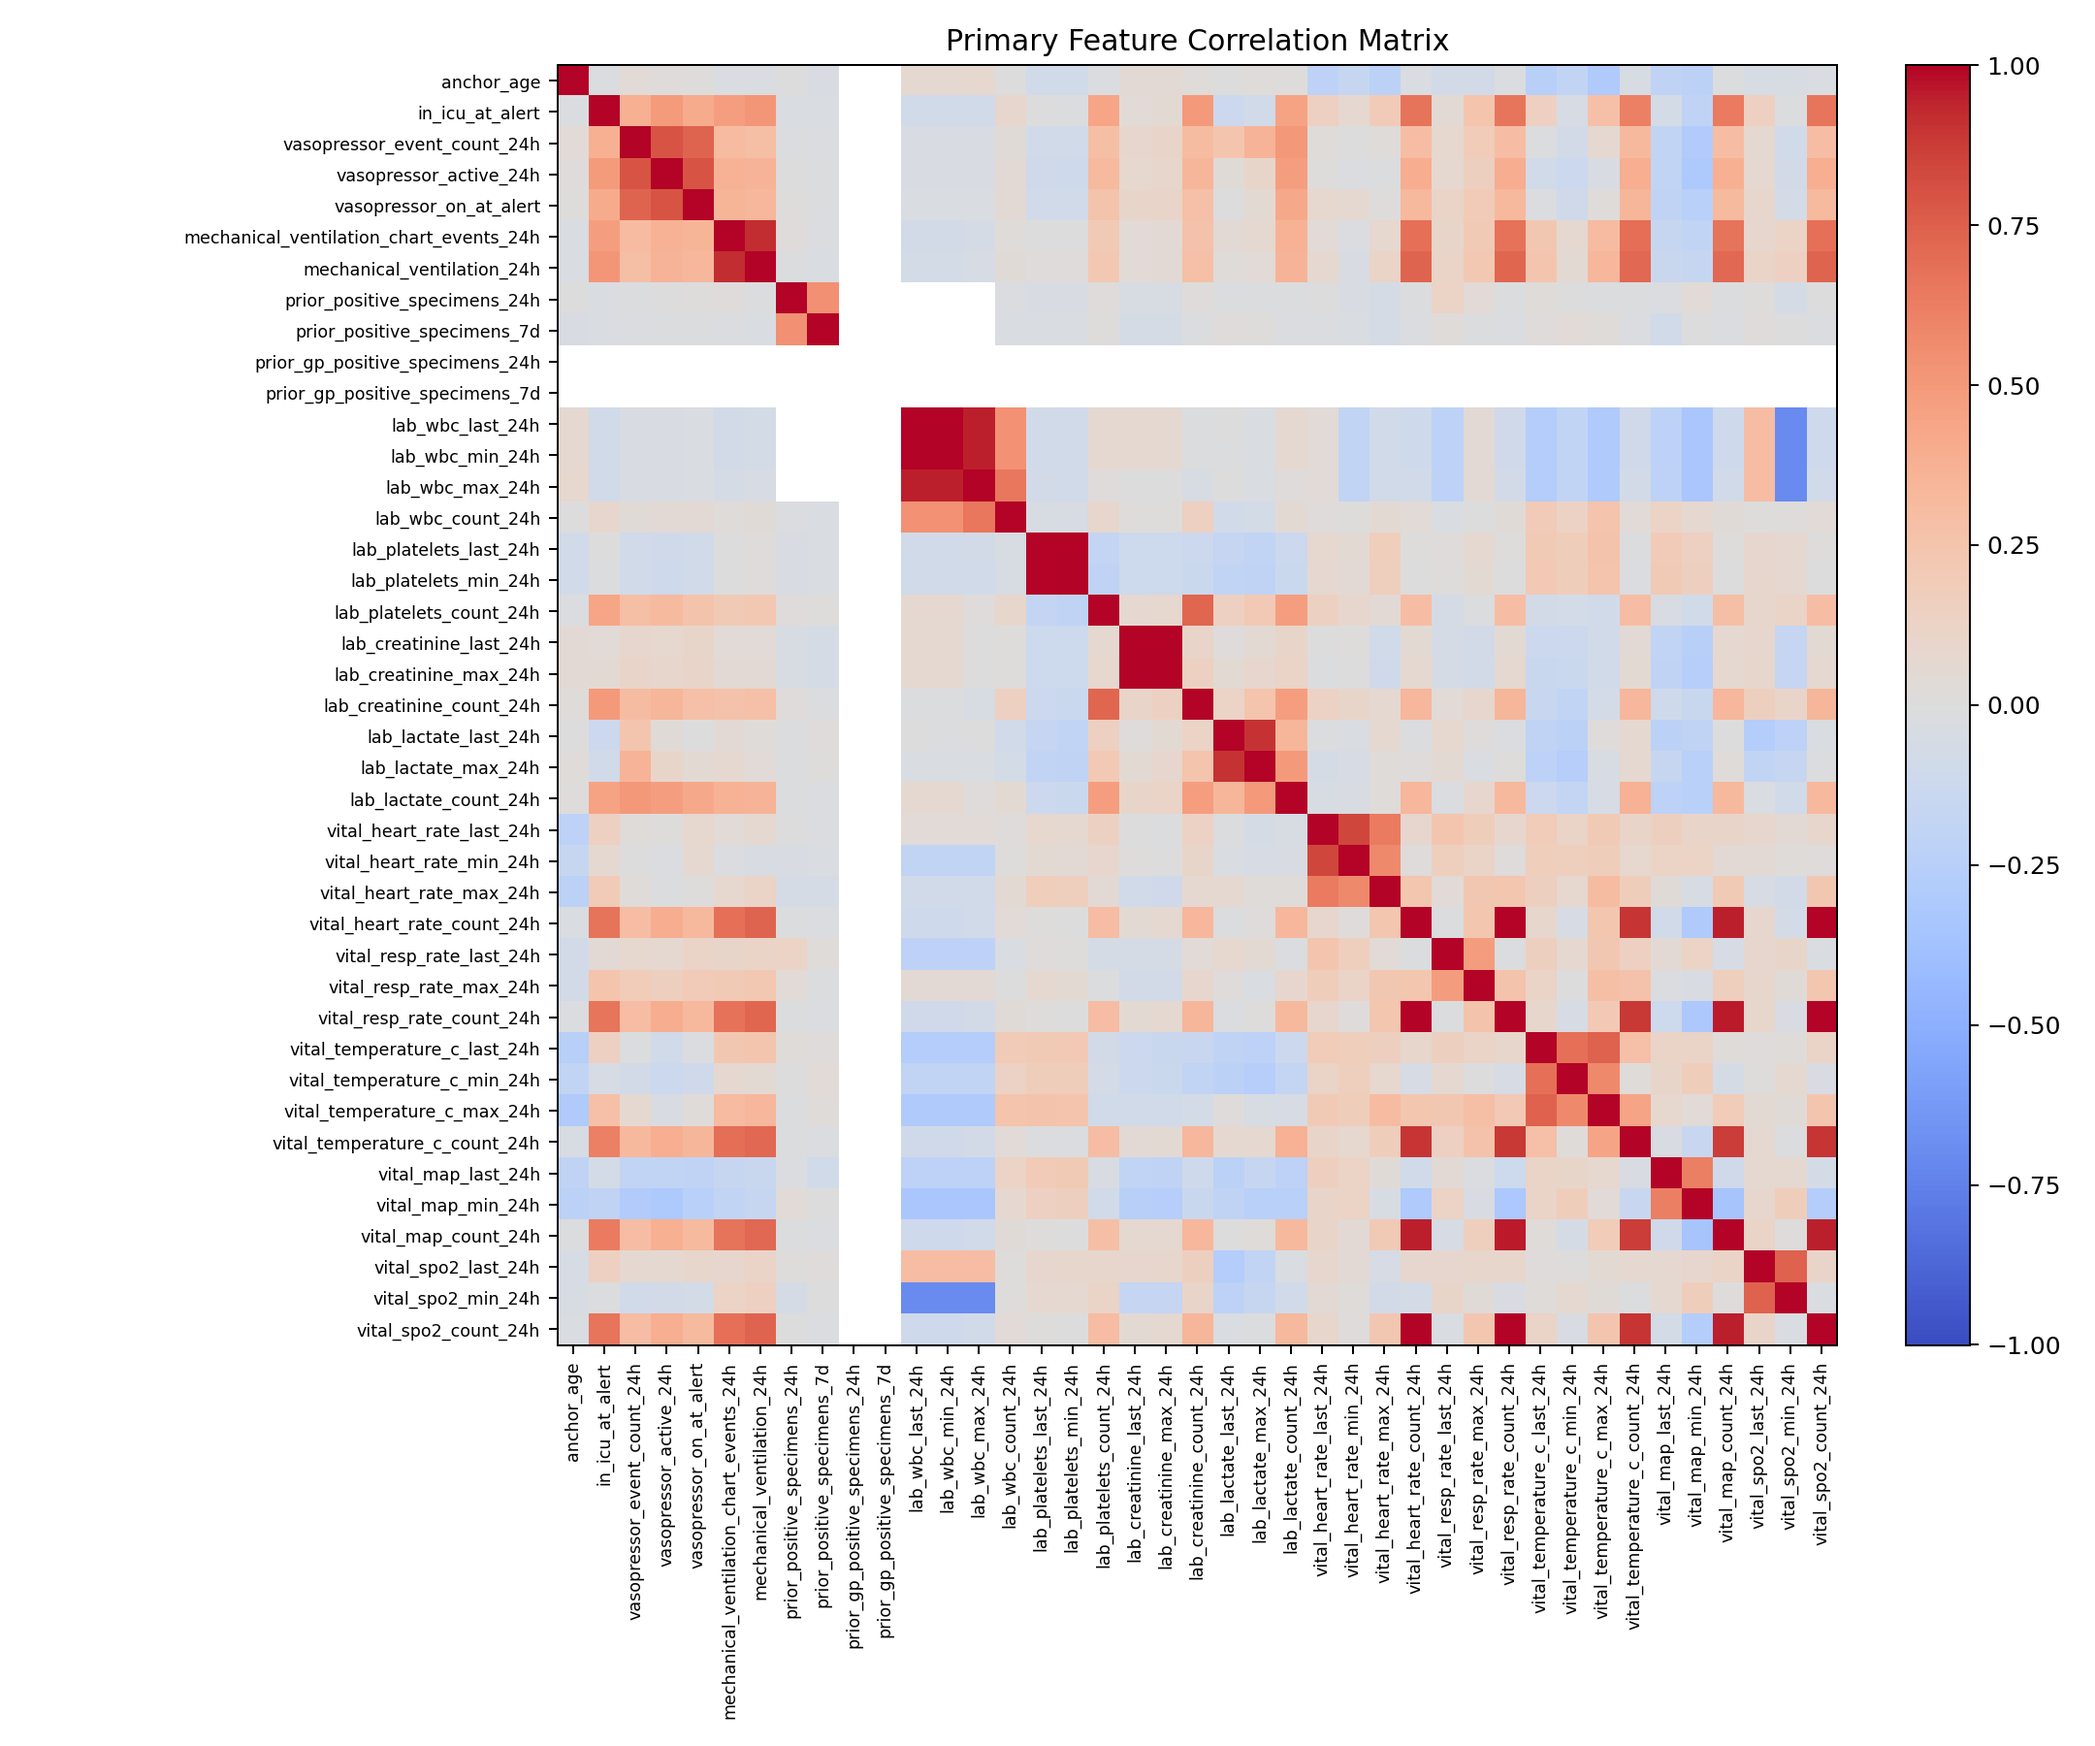
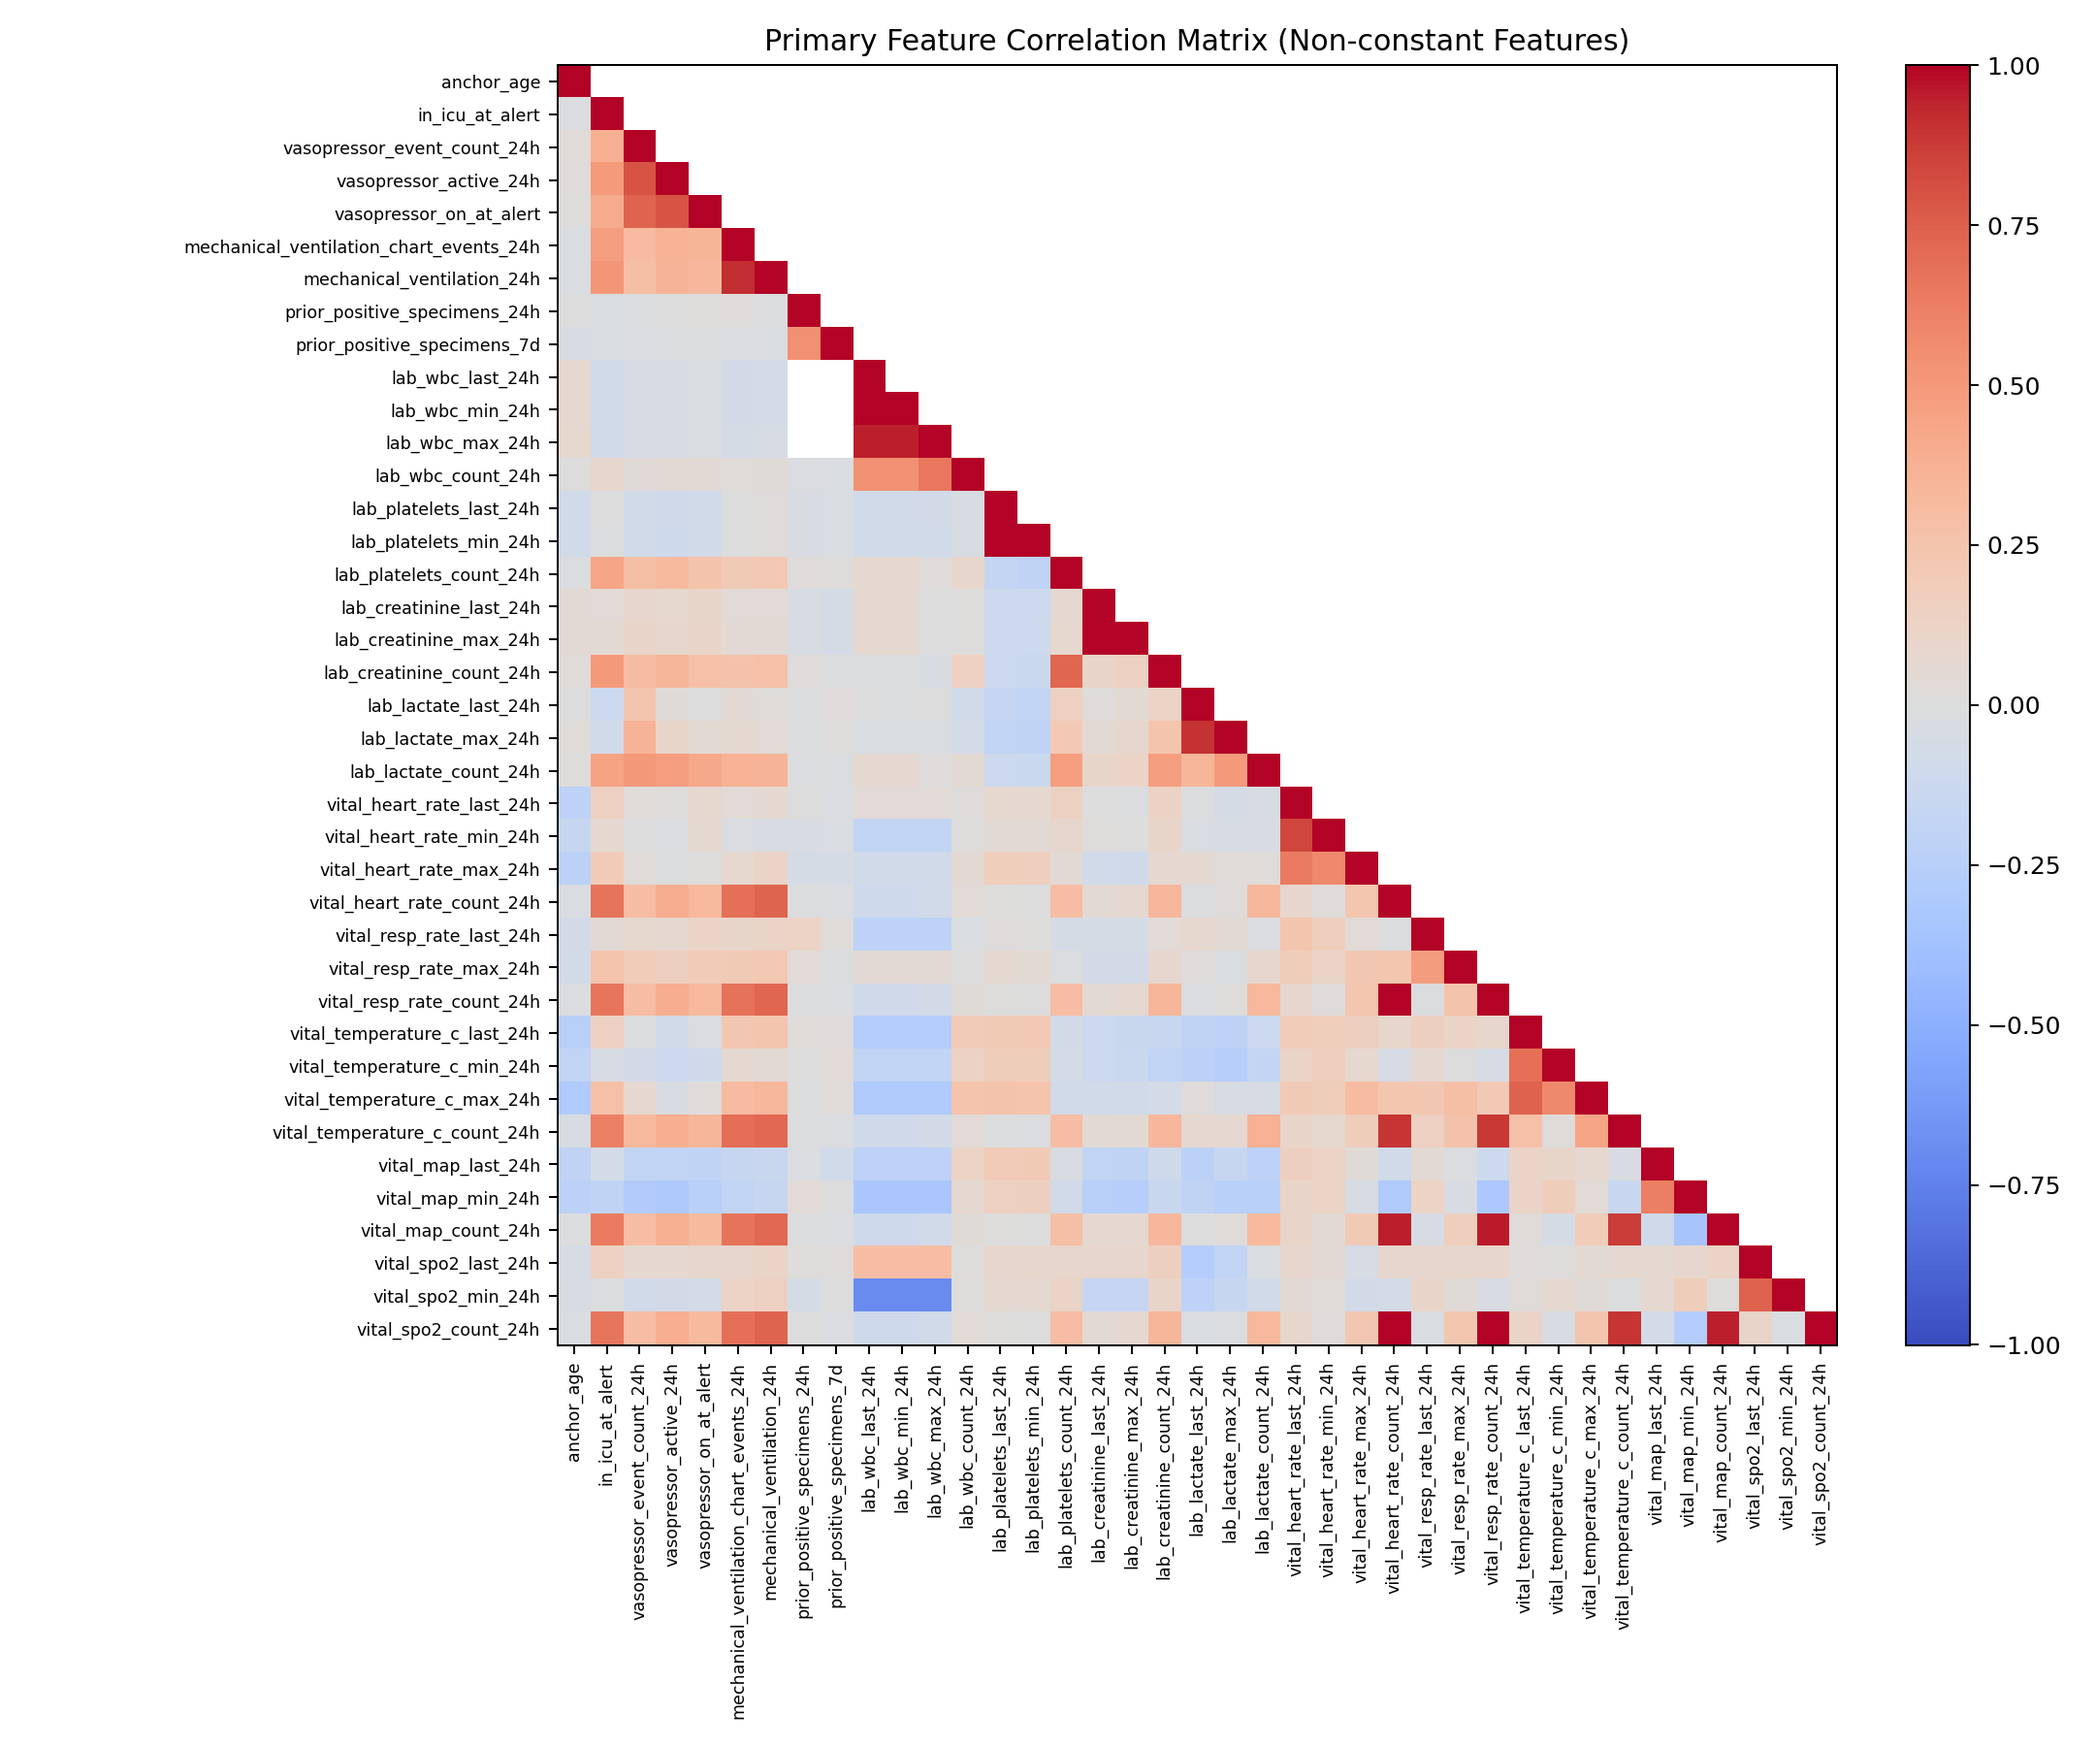
Fix primary correlation figure

diff --git a/scripts/analyze_primary_feature_baseline.py b/scripts/analyze_primary_feature_baseline.py
@@ -2,6 +2,7 @@ from __future__ import annotations
 
 import json
 from pathlib import Path
+import shutil
 
 import matplotlib.pyplot as plt
 import numpy as np
@@ -160,13 +161,19 @@ def _save_barplot(
 
 
 def _save_heatmap(corr: pd.DataFrame, path: Path) -> None:
+    values = corr.to_numpy()
+    mask = np.triu(np.ones_like(values, dtype=bool), k=1)
+    masked_values = np.ma.array(values, mask=mask)
+    cmap = plt.get_cmap("coolwarm").copy()
+    cmap.set_bad(color="white")
+
     fig, ax = plt.subplots(figsize=(12, 10))
-    im = ax.imshow(corr.to_numpy(), cmap="coolwarm", vmin=-1, vmax=1)
+    im = ax.imshow(masked_values, cmap=cmap, vmin=-1, vmax=1)
     ax.set_xticks(np.arange(len(corr.columns)))
     ax.set_yticks(np.arange(len(corr.index)))
     ax.set_xticklabels(corr.columns, rotation=90, fontsize=7)
     ax.set_yticklabels(corr.index, fontsize=7)
-    ax.set_title("Primary Feature Correlation Matrix")
+    ax.set_title("Primary Feature Correlation Matrix (Non-constant Features)")
     fig.colorbar(im, ax=ax, fraction=0.046, pad=0.04)
     fig.tight_layout()
     fig.savefig(path, dpi=180)
@@ -177,7 +184,9 @@ def main() -> None:
     project_root = Path.cwd()
     features_path = project_root / "artifacts" / "blood_culture" / "first_gp_alert_features.csv"
     reports_dir = project_root / "reports"
+    figures_dir = project_root / "figures" / "primary_baseline"
     reports_dir.mkdir(parents=True, exist_ok=True)
+    figures_dir.mkdir(parents=True, exist_ok=True)
 
     df = pd.read_csv(features_path)
     data = df[df["is_high_confidence_binary"] == 1].copy()
@@ -266,10 +275,23 @@ def main() -> None:
         }
     ).sort_values("mean_abs_shap", ascending=False).reset_index(drop=True)
 
-    corr = data[PRIMARY_FEATURES].corr()
+    feature_frame = data[PRIMARY_FEATURES].copy()
+    feature_stats = pd.DataFrame(
+        {
+            "feature": PRIMARY_FEATURES,
+            "non_missing_count": [int(feature_frame[col].notna().sum()) for col in PRIMARY_FEATURES],
+            "observation_rate": [float(feature_frame[col].notna().mean()) for col in PRIMARY_FEATURES],
+            "unique_non_missing": [int(feature_frame[col].nunique(dropna=True)) for col in PRIMARY_FEATURES],
+            "variance": [float(feature_frame[col].var(skipna=True)) for col in PRIMARY_FEATURES],
+        }
+    )
+    nonconstant_features = feature_stats.loc[feature_stats["unique_non_missing"] > 1, "feature"].tolist()
+    dropped_constant_features = feature_stats.loc[feature_stats["unique_non_missing"] <= 1, "feature"].tolist()
+
+    corr = feature_frame[nonconstant_features].corr()
     corr_pairs = []
-    for i, left in enumerate(PRIMARY_FEATURES):
-        for right in PRIMARY_FEATURES[i + 1 :]:
+    for i, left in enumerate(nonconstant_features):
+        for right in nonconstant_features[i + 1 :]:
             value = corr.loc[left, right]
             if pd.isna(value):
                 continue
@@ -285,6 +307,10 @@ def main() -> None:
 
     logistic_coefs.to_csv(reports_dir / "blood_culture_primary_logistic_coefficients.csv", index=False)
     shap_importance.to_csv(reports_dir / "blood_culture_primary_xgb_shap_importance.csv", index=False)
+    feature_stats.sort_values(["observation_rate", "feature"]).to_csv(
+        reports_dir / "blood_culture_primary_feature_observation_rates.csv",
+        index=False,
+    )
     corr.to_csv(reports_dir / "blood_culture_primary_feature_correlation_matrix.csv", index=True)
     corr_pairs_df.to_csv(reports_dir / "blood_culture_primary_feature_correlation_pairs.csv", index=False)
 
@@ -305,10 +331,23 @@ def main() -> None:
         color="#1d3557",
     )
     _save_heatmap(corr, reports_dir / "blood_culture_primary_feature_correlation.png")
+    shutil.copy2(reports_dir / "blood_culture_primary_xgb_shap_importance.png", figures_dir / "xgb_shap_importance.png")
+    shutil.copy2(
+        reports_dir / "blood_culture_primary_logistic_coefficients.png",
+        figures_dir / "logistic_coefficients.png",
+    )
+    shutil.copy2(
+        reports_dir / "blood_culture_primary_feature_correlation.png",
+        figures_dir / "feature_correlation.png",
+    )
 
     summary = {
         "feature_set_name": "PRIMARY_FEATURES",
         "feature_count": len(PRIMARY_FEATURES),
+        "correlation_plot": {
+            "features_shown": len(nonconstant_features),
+            "dropped_constant_features": dropped_constant_features,
+        },
         "cohort": {
             "rows": int(len(data)),
             "unique_patients": int(data["subject_id"].nunique()),
@@ -340,6 +379,7 @@ def main() -> None:
         "files": {
             "logistic_coefficients_csv": str(reports_dir / "blood_culture_primary_logistic_coefficients.csv"),
             "xgb_shap_importance_csv": str(reports_dir / "blood_culture_primary_xgb_shap_importance.csv"),
+            "feature_observation_rates_csv": str(reports_dir / "blood_culture_primary_feature_observation_rates.csv"),
             "correlation_matrix_csv": str(reports_dir / "blood_culture_primary_feature_correlation_matrix.csv"),
             "correlation_pairs_csv": str(reports_dir / "blood_culture_primary_feature_correlation_pairs.csv"),
             "logistic_coefficients_png": str(reports_dir / "blood_culture_primary_logistic_coefficients.png"),

diff --git a/PRIMARY_BASELINE_EXPLAINABILITY.md b/PRIMARY_BASELINE_EXPLAINABILITY.md
@@ -121,6 +121,15 @@ Figure:
 
 ## Correlation Findings
 
+Important note:
+
+- the correlation figure now excludes two constant-zero features:
+  - `prior_gp_positive_specimens_24h`
+  - `prior_gp_positive_specimens_7d`
+- those two columns were producing `NaN` rows and columns in the old heatmap, which is why the previous picture looked broken
+- the current heatmap shows the remaining `39` non-constant features only
+- several lab and ICU vital features are still sparse in this hospital-wide cohort, so the correlation plot should be read as a redundancy check, not as a causal map
+
 The strongest correlations are not surprising. They mainly show feature redundancy inside the compact set.
 
 Examples:
@@ -141,6 +150,7 @@ Files:
 
 - [reports/blood_culture_primary_feature_correlation_pairs.csv](reports/blood_culture_primary_feature_correlation_pairs.csv)
 - [reports/blood_culture_primary_feature_correlation_matrix.csv](reports/blood_culture_primary_feature_correlation_matrix.csv)
+- [reports/blood_culture_primary_feature_observation_rates.csv](reports/blood_culture_primary_feature_observation_rates.csv)
 - [reports/blood_culture_primary_feature_correlation.png](reports/blood_culture_primary_feature_correlation.png)
 
 Figure:
